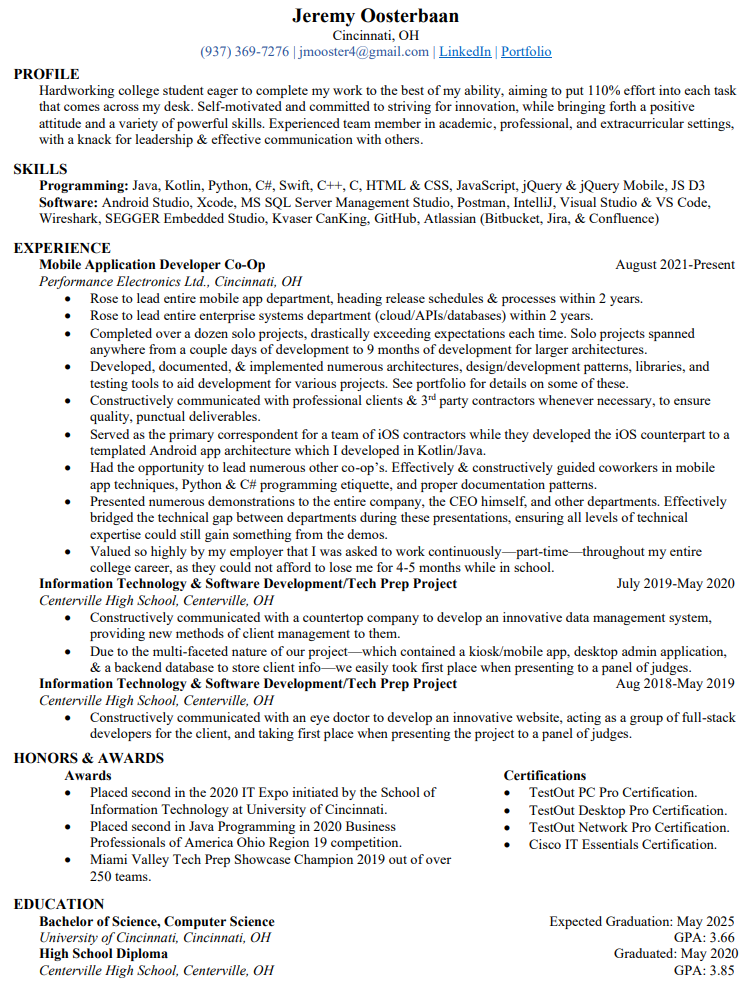
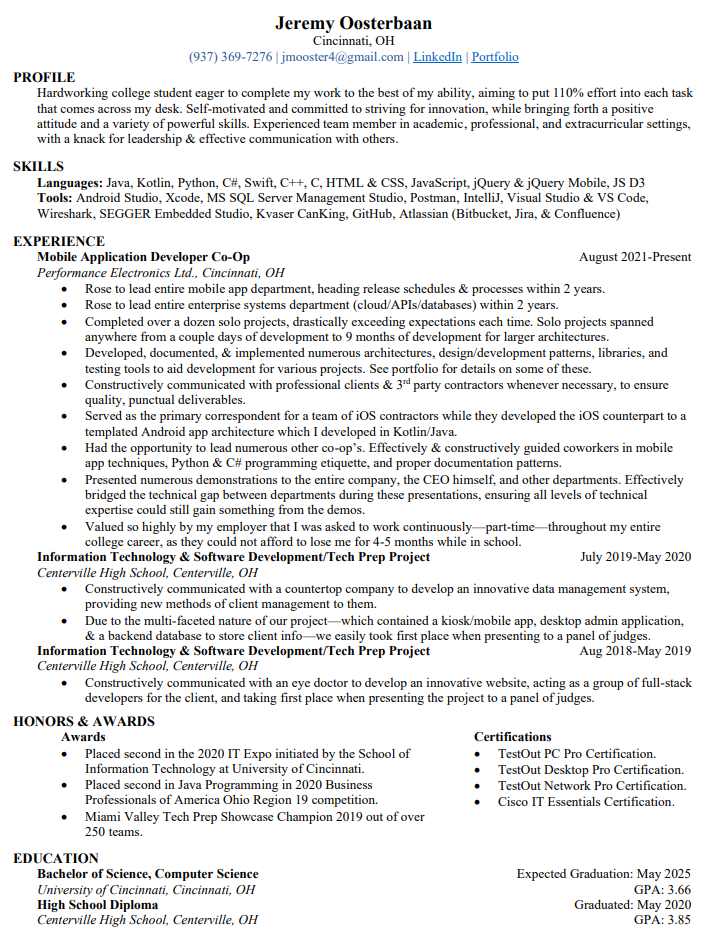
Develop-4 (#7)
* Reviewed suggestions from Scott & updated portfolio + resume accordingly. Added some TODO comments for future changes (updated headshot, hyperlinks, new sections on corporate, etc.). (#5)

* Updated professional headshot. Replaced copyright mobile app images with free glyphs (FontAwesome). Updated image of my resume.

* Some small CSS adjustments to enable a more responsive design, viewable across screen sizes & devices. (#6)

---------

diff --git a/src/HTML/professional_experience.html b/src/HTML/professional_experience.html
@@ -61,52 +61,67 @@
                 <!-- Android Apps -->
                 <figure>
                     <a href="https://play.google.com/store/apps/details?id=com.peltd.nostrum_e85" target="_blank">
-                        <img src="../Resources/nostrum-app-logo.png" alt="Nostrum E85 App Logo">
+                        <i class="fa-solid fa-mobile"></i>
                     </a>
                     <figcaption><em>Android App</em><br>I did some proof-of-concept work with dynamic theming on this app. We passed a theme configuration—stored on & retrieved from a database via our REST API's—to the app and it would apply themes accordingly.</figcaption>
                 </figure>
                 <figure>
                     <a href="https://play.google.com/store/apps/details?id=com.pe.wideband" target="_blank">
-                        <img src="../Resources/wideband-app-logo.png" alt="Wideband App Logo">
+                        <i class="fa-solid fa-mobile-button"></i>
                     </a>
                     <figcaption><em>Android App</em><br>I helped with many smaller changes and did lots of testing/validation of components within the app. My work on this app served as a transitionary period in which I began taking on larger portions of responsibility.</figcaption>
                 </figure>
                 <figure>
                     <a href="https://play.google.com/store/apps/details?id=com.pe.garrettapp" target="_blank">
-                        <img src="../Resources/garrett-app-logo.png" alt="Garrett G-Smart Module App Logo">
+                        <i class="fa-solid fa-mobile-screen"></i>
                     </a>
                     <figcaption><em>Android App</em><br>My predecessor moved on to a new job during development of this app and I took over as the lead developer for it. The vast majority of bugfixes, testing, & late-term modifications were overseen by me.</figcaption>
                 </figure>
                 <figure>
+                    <!--
                     <a href="" target="_blank">
                         <img src="../Resources/edelbrock-app-logo.png" alt="Edelbrock App Logo">
                     </a>
-                    <figcaption><em>Android App</em><br>This is the first app that I've implemented fully to completion on my own. Thoroughly designing, implementing, & testing the app, following a templated Android app architecture which I designed. More on this can be found on the <em>Design & Development</em> page.</figcaption>
+                    -->
+                    <abbr title="Unfortunately, this app hasn't yet been publicly released. Upon release, the hyperlink will be updated appropriately.">
+                        <i class="fa-solid fa-mobile-screen-button"></i>
+                    </abbr>
+                    <figcaption><em>Android App</em><br>This is the first app that I've thoroughly designed, implemented, & tested, following a templated Android app architecture which I designed. More on this can be found on the <em>Design & Development</em> page.</figcaption>
+                    <!--
+                    Published media showcasing (briefly) the demo app I put together:
+                    https://www.youtube.com/watch?v=hXJGl2h81KA
+                    -->
                 </figure>
 
                 <!-- iOS Apps -->
                 <figure>
                     <a href="https://apps.apple.com/us/app/nostrum-e85-ethanol-module-app/id1503385365" target="_blank">
-                        <img src="../Resources/nostrum-app-logo.png" alt="Nostrum E85 App Logo">
+                        <!--<img src="../Resources/nostrum-app-logo.png" alt="Nostrum E85 App Logo">-->
+                        <i class="fa-solid fa-mobile"></i>
                     </a>
                     <figcaption><em>iOS App</em></figcaption>
                 </figure>
                 <figure>
                     <a href="https://apps.apple.com/us/app/pe-wideband/id1351406709" target="_blank">
-                        <img src="../Resources/wideband-app-logo.png" alt="Wideband App Logo">
+                        <i class="fa-solid fa-mobile-button"></i>
                     </a>
                     <figcaption><em>iOS App</em></figcaption>
                 </figure>
                 <figure>
                     <a href="https://apps.apple.com/us/app/garrett-motion-g-smart-module/id6457547124" target="_blank">
-                        <img src="../Resources/garrett-app-logo.png" alt="Garrett G-Smart Module App Logo">
+                        <i class="fa-solid fa-mobile-screen"></i>
                     </a>
                     <figcaption><em>iOS App</em></figcaption>
                 </figure>
                 <figure>
+                    <!--
                     <a href="" target="_blank">
                         <img src="../Resources/edelbrock-app-logo.png" alt="Edelbrock App Logo">
                     </a>
+                    -->
+                    <abbr title="Unfortunately, this app hasn't yet been publicly released. Upon release, the hyperlink will be updated appropriately.">
+                        <i class="fa-solid fa-mobile-screen-button"></i>
+                    </abbr>
                     <figcaption><em>iOS App</em></figcaption>
                 </figure>
             </span>

diff --git a/src/HTML/about_me.html b/src/HTML/about_me.html
@@ -50,14 +50,12 @@
         </nav>
 
         <main>
-            <p><strong>Disclaimer:</strong> <em>This page is a rather informal introduction to who I am. Its less about my professional/academic achievements, but rather to better understand me as an individual. If you're a recruiter with limited time, the other pages of this portfolio may be more exciting.</em></p>
-
-            <h2>Academics</h2>
+            <h2>Passion For Tech</h2>
             <p>I am definitely a computer nerd. I had an old desktop machine when I was very young, I saved up to buy my first laptop with birthday & Christmas money in 3rd grade, and my first powerful gaming laptop in 9th grade. I love all things information technology (IT). In High School, I had the opportunity to join the Information Technology & Software Engineering block program: a 2-hour a day class that dabbled in pretty much every area of IT. Topics such as programming, security, networking, software, hardware, operatting systems, etc.</p>
 
             <p>My love for computers continued throughout my college career, in which I was able to complete dozens of projects spanning across the broad field of <em>Computer Science</em>. A couple of the later projects can be seen on my <a href="https://github.com/JPEG1" target="_blank">GitHub</a>, although I am far more proud of the work I've done professionally than the simple projects completed for school.</p>
 
-            <h2>Professional</h2>
+            <h2>Professional Experience Pre-Graduation</h2>
             <p>At the University of Cincinnati, the Computer Science degree follows the 5-year <abbr title="College of Engineering and Appliced Science">CEAS</abbr> program's structure, which required us to take five professional Co-Op semesters. This gave me the opportunity to obtain five entire semesters of real-world, professional work experience before I graduate. Consequently, this is how I kickstarted my professional career. I've outlined my professional experience in more detail on the corresponding page of this portfolio.</p>
 
             <h2>Faith</h2>

diff --git a/src/HTML/side_projects.html b/src/HTML/side_projects.html
@@ -63,7 +63,7 @@
                 </li>
                 <li><strong>Instagram Comment Bot for Entering Lightsaber Giveaways</strong>
                     <ul>
-                        <li>This project was even less complete than the RallyCats email script, but also completed in Python. In early 2024, I was interested in winning a ~$500 lightsaber giveaway from a popular lightsaber manufacturer on Instagram. Each comment—tagging 3 new people—would earn you 1 entry into the giveaway. My plan was to create a simple Python script that went through the account's list of followers, taking 3 at a time and commenting them on the post. It would continue running until the account's entire list of followers (~20k, or ~6500 entries) had been traversed.</li>
+                        <li>This project was even less complete than the RallyCats email script, but also completed in Python. I am a big Star Wars fan and in early 2024, I was interested in winning a ~$500 lightsaber giveaway from a popular lightsaber manufacturer on Instagram. Each comment—tagging 3 new people—would earn you 1 entry into the giveaway. My plan was to create a simple Python script that went through the account's list of followers, taking 3 at a time and commenting them on the post. It would continue running until the account's entire list of followers (~20k, or ~6500 entries) had been traversed.</li>
                         <li>I did some brief research & planning for the project, found a couple useful Python modules to enable communication with Instagram's API's, and even wrote a simple script to run everything. However, unable to find a clear line as to what rate I could run the script at before getting banned for spam, I ultimately left the project unfinished. I may yet deploy this project in the future—perhaps with a secondary Instagram account rather than my personal—as the company has continued running monthly giveaways ever since.</li>
                     </ul>
                 </li>

diff --git a/src/HTML/aspirations.html b/src/HTML/aspirations.html
@@ -57,7 +57,12 @@
             <p>I took an intro to cloud computing class during my undergrad which allowed me to explore the <em>Big 3</em> mentioned above. However, the projects completed for that class were magnitudes of scale lessor than that of which I'd expect in the industry. The class provided a comprehensive understanding of the history of cloud computing, the market(s) which it fills, and the concepts/theory behind how it works. The homeworks & projects gave me the opportunity to play around in some very small sandboxes.</p>
 
             <h4>Why Cloud Computing?</h4>
-            <p>Cloud computing & cloud technologies open the door to endless possibilities. They allow for very small teams & even individual developers to build some truly incredible projects by offloading resources, storage, etc. Moreover, cloud solutions are future of software development & information technology. For the past few decades, there has been a mass migration of companies porting systems over to the cloud. In such a cloud-dependent society, I'd hardly be able to call myself a software developer without a thorough understanding & extensive portfolio of cloud-based experience.</p>
+            <p>Cloud computing & cloud technologies open the door to endless possibilities. They allow for very small teams & even individual developers to build some truly incredible projects by offloading resources, storage, etc. Moreover, cloud solutions are future of software development & information technology. For the past few decades, there has been a mass migration of companies porting systems over to the cloud. My goal with my next professional experience is to jump into such an opportunistic world.</p>
+
+            <!-- TODO: Add a section for corporate work & explain why it appeals to me?
+            <h2>Corporate</h2>
+            <p></p>
+            -->
         </main>
 
         <footer>

diff --git a/src/CSS/main.css b/src/CSS/main.css
@@ -47,11 +47,11 @@ img {
 }
 
 main {
-    width: 960px;
+    width: 70%;
     margin: 0 auto;
     font-size: 135%;
     line-height: 1.3;
-    padding: 1em 0 0 0;
+    padding: 1em 0;
 }
 
 footer {
@@ -110,16 +110,16 @@ h1, h2, h3, h4, h5, h6 {
     flex-wrap: wrap;
     gap: 1em;
     background-color: slategray;
-    border-radius: 0.5em;
-    padding: 1em 0em;
+    border-radius: 0.25em;
+    padding: 0.25em 0.25em;
     align-items: flex-start;
     justify-content: center;
     margin: 1em auto;
 }
 
 #resume embed {
-    width: 600px;
-    height: 850px;
+    width: 950px;
+    height: 1150px;
     border-radius: 0.1em;
 }
 
@@ -127,6 +127,7 @@ h1, h2, h3, h4, h5, h6 {
 .apps {
     display: flex;
     flex-wrap: wrap;
+    width: 80%;
     gap: 1em;
     background-color: slategray;
     border-radius: 0.5em;
@@ -144,12 +145,24 @@ h1, h2, h3, h4, h5, h6 {
     text-decoration: none;
 }
 
-.apps figure img {
+.apps a {
     border: 0px solid white;
-    border-radius: 0em;
+    font-size: 1200%;
     text-decoration: none;
+    color: goldenrod;
 }
 
-.apps figure img:hover {
+.apps a:hover {
+    opacity: 0.5;
+}
+
+.apps abbr {
+    border: 0px solid white;
+    font-size: 1200%;
+    text-decoration: none;
+    color: goldenrod;
+}
+
+.apps abbr:hover {
     opacity: 0.5;
 }

diff --git a/index.html b/index.html
@@ -26,8 +26,11 @@
             </div>
 
             <figure>
-                <img src="./src/Resources/headshot1.png" alt="Jeremy Oosterbaan">
+                <!-- TODO: Need to add an updated headshot (have UC take one in suit + tie?): -->
+                <img src="./src/Resources/headshot2.png" alt="Jeremy Oosterbaan">
+                <!--
                 <figcaption>An, admittedly dated, portrait of myself.</figcaption>
+                -->
             </figure>
         </header>
 
@@ -67,8 +70,6 @@
             <span id="resume">
                 <embed src="./src/Resources/JeremyOosterbaan_Resume.pdf" type="application/pdf">
             </span>
-            
-            <p><strong>Disclaimer:</strong> <em>I am most certainly not a front-end developer. Thus, this portfolio is a simple, static website which I threw together within a weekend to present my work in other, non-front-end focused domains.</em></p>
         </main>
 
         <footer>

diff --git a/src/CSS/hamburger-menu.css b/src/CSS/hamburger-menu.css
@@ -60,8 +60,8 @@
 #menu {
     position: absolute;
     width: 350px;
-    height: 100vh;
-    margin: -100px 0 0 -50px;
+    height: 110vh;
+    margin: -15vh 0 0 -50px;
     padding: 50px;
     padding-top: 125px;
     background: #ededed;
